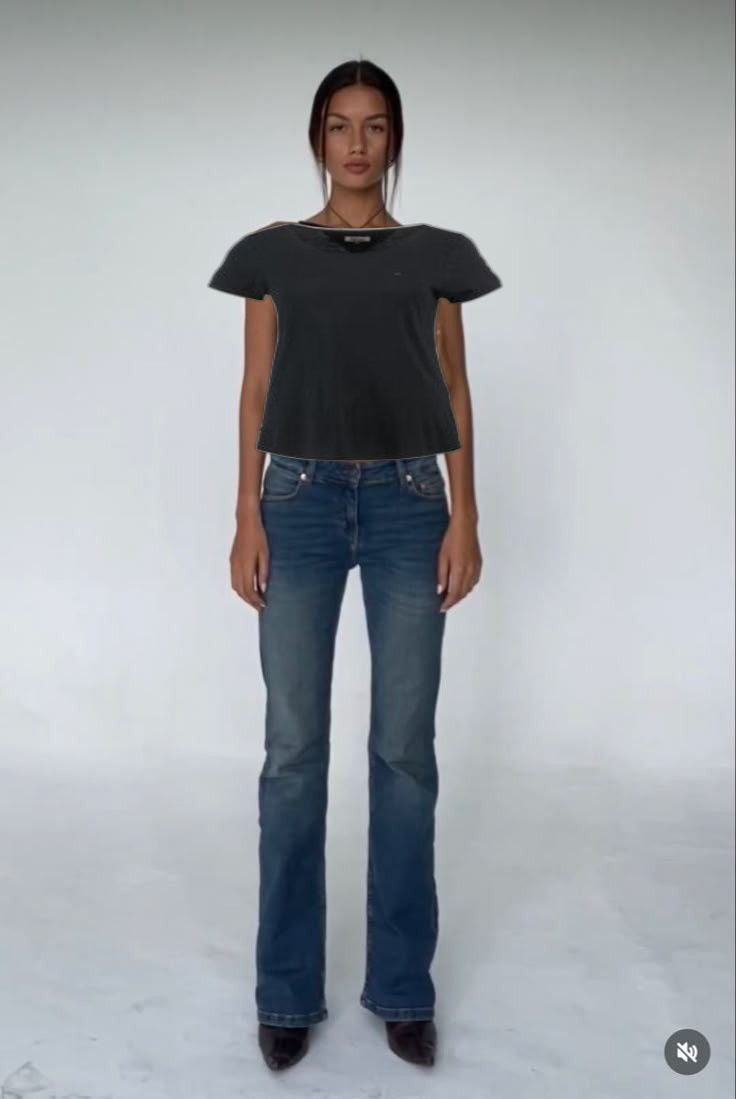
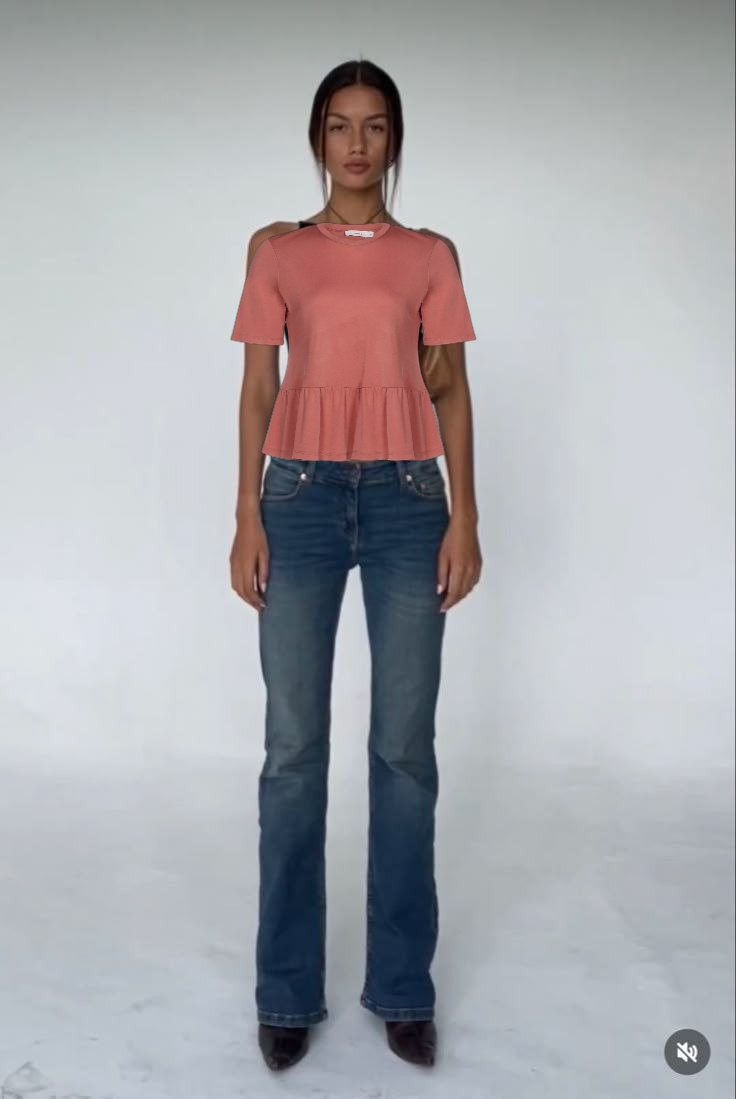
preselect cloth images

Changed region(s): [[0.2812, 0.1856, 0.6875, 0.4331]]

diff --git a/templates/homw.html b/templates/homw.html
@@ -60,7 +60,7 @@
 
                   <p style="text-align: left; font-size: 18px; color: #333; margin-bottom: 25px; max-width: 600px; margin-left: 0;">Upload your model and product images to see how different outfits look on you, without ever trying them on in person. 
                     Explore a new way of visualizing fashion with just a few simple clicks.</p>
-                  <a href="/upload" class="hero-btn">Try On Your Outfit</a>
+                  <a href="/upload?garment=static/results/images/Product8.jpeg" class="hero-btn">Try On Your Outfit</a>
                 </div>
                 <div class="right">
                   <img class="img1" src="static\results\images\banner.png" alt="">
@@ -110,7 +110,7 @@
           <a href="productDetails.html">Quis Nostrud Exercitation</a>
           <h4>$700</h4>
           <button>
-            <a href="/upload" class="hero-btnn">Try On</a>
+            <a href="/upload?garment=static/results/images/Product8.jpeg" class="hero-btnn">Try On</a>
           </button>
 
           <button>
@@ -136,7 +136,7 @@
           <a href="">Sonata White Men’s Shirt</a>
           <h4>$800</h4>
           <button>
-            <a href="/upload" class="hero-btnn">Try On</a>
+            <a href="/upload?garment=static/results/images/Product6.jpeg" class="hero-btnn">Try On</a>
           </button>
 
           <button>
@@ -160,11 +160,11 @@
           <a href="">Concepts Solid Pink Men’s Polo</a>
           <h4>$150</h4>
           <button>
-            <a href="/upload"class="hero-btnn">Try On</a>
+            <a href="/upload?garment=static/results/images/Product5.jpeg"class="hero-btnn">Try On</a>
           </button>
 
           <button>
-            <a href="static\results\images\2.jpeg" class="hero-btnn" download>Download</a>
+            <a href="static\results\images\Product5.jpeg" class="hero-btnn" download>Download</a>
           </button>
         </div>
         <ul class="icons">
@@ -185,7 +185,7 @@
           <a href="">Edor do eiusmod tempor</a>
           <h4>$900</h4>
           <button>
-            <a href="/upload" class="hero-btnn">Try On</a>
+            <a href="/upload?garment=static/results/images/2.jpeg" class="hero-btnn">Try On</a>
           </button>
 
           <button>
@@ -209,7 +209,7 @@
           <a href="">Edor do eiusmod tempor</a>
           <h4>$100</h4>
           <button>
-            <a href="/upload" class="hero-btnn">Try On</a>
+            <a href="/upload?garment=static/results/images/skirt.jpeg" class="hero-btnn">Try On</a>
           </button>
 
           <button>
@@ -233,7 +233,7 @@
           <a href="">Edor do eiusmod tempor</a>
           <h4>$500</h4>
           <button>
-            <a href="/upload" class="hero-btnn">Try On</a>
+            <a href="/upload?garment=static/results/images/pant.jpeg" class="hero-btnn">Try On</a>
           </button>
 
           <button>
@@ -258,7 +258,7 @@
           <a href="">Edor do eiusmod tempor</a>
           <h4>$200</h4>
           <button>
-            <a href="/upload" class="hero-btnn">Try On</a>
+            <a href="/upload?garment=static/results/images/Product1.jpeg" class="hero-btnn">Try On</a>
           </button>
 
           <button>
@@ -282,7 +282,7 @@
           <a href="">Edor do eiusmod tempor</a>
           <h4>$560</h4>
           <button>
-            <a href="/upload" class="hero-btnn">Try On</a>
+            <a href="/upload?garment=static/results/images/Product2.jpeg" class="hero-btnn">Try On</a>
           </button>
 
           <button>

diff --git a/templates/upload.html b/templates/upload.html
@@ -116,12 +116,12 @@
         <div class="file-input-container">
             <label for="model_image">Model Image:</label>
             <input type="file" name="model_image" required>
-            <span class="file-input-label">No file chosen</span>
+            <!-- <span class="file-input-label">No file chosen</span> -->
         </div>
         <div class="file-input-container">
             <label for="clothes_image">Clothes Image:</label>
-            <input type="file" name="clothes_image" required>
-            <span class="file-input-label">No file chosen</span>
+            <!-- <input type="file" name="clothes_image" required> -->
+            <!-- <span class="file-input-label">No file chosen</span> -->
         </div>
         <label for="garment_type">Select Garment Type:</label>
         <select name="garment_type" id="garment_type" required>
@@ -130,5 +130,30 @@
         </select>
         <input type="submit" value="Upload Images">
     </form>
+
+
+    <!-- Add this script at the bottom of the body in upload.html -->
+<script>
+    // Check if we have a preselected garment
+    const urlParams = new URLSearchParams(window.location.search);
+    const garmentPath = urlParams.get('garment');
+    
+    if (garmentPath) {
+      // Create a hidden input for the preselected garment
+      const hiddenInput = document.createElement('input');
+      hiddenInput.type = 'hidden';
+      hiddenInput.name = 'preselected_garment';
+      hiddenInput.value = garmentPath;
+      document.querySelector('form').appendChild(hiddenInput);
+      
+      // Update the clothes image label to show preselected image
+      const clothesLabel = document.querySelector('label[for="clothes_image"]');
+      clothesLabel.innerHTML += `<br><small>Preselected: ${garmentPath.split('/').pop()}</small>`;
+      
+      // Make clothes image upload optional since we have a preselected one
+      document.querySelector('input[name="clothes_image"]').required = false;
+    }
+  </script>
+
 </body>
 </html>

diff --git a/main.py b/main.py
@@ -96,45 +96,129 @@ def remove_background(input_path, output_path):
         print(f"Background removal error: {e}")
         return False
 
+# @app.route('/upload', methods=['GET', 'POST'])
+# def upload_file():
+#     if request.method == 'POST':
+#         model_image = request.files.get('model_image')
+#         clothes_image = request.files.get('clothes_image')
+#         garment_type = request.form.get('garment_type')
+
+#         if model_image and clothes_image:
+#             model_filename = secure_filename(model_image.filename)
+#             clothes_filename = secure_filename(clothes_image.filename)
+
+#             model_image_path = os.path.join(app.config['UPLOAD_FOLDER'], model_filename)
+#             clothes_image_path = os.path.join(app.config['UPLOAD_FOLDER'], clothes_filename)
+#             clothes_no_bg_path = os.path.join(app.config['UPLOAD_FOLDER'], 'no_bg_' + clothes_filename)
+#             output_filename = 'output_' + model_filename
+#             output_image_path = os.path.join(app.config['STATIC_FOLDER'], output_filename)
+
+#             model_image.save(model_image_path)
+#             clothes_image.save(clothes_image_path)
+
+#             if not remove_background(clothes_image_path, clothes_no_bg_path):
+#                 return jsonify({'error': 'Background removal failed'})
+
+#             if garment_type == 'lower_body':
+#                 output_path, message = overlay_lower_body_garment(model_image_path, clothes_no_bg_path, output_image_path)
+#             elif garment_type == 'upper_body':
+#                 output_path, message = overlay_cloth_on_model(model_image_path, clothes_no_bg_path, output_image_path)
+#             else:
+#                 return jsonify({'error': 'Invalid garment type'})
+
+#             if output_path:
+#                 with open(output_image_path, "rb") as img_file:
+#                     img_data = base64.b64encode(img_file.read()).decode('utf-8')
+#                 return render_template('result.html', img_data=img_data)
+#             else:
+#                 return jsonify({'error': message})
+
+#     return render_template('upload.html')
+# Update the upload_file route in main.py
+
 @app.route('/upload', methods=['GET', 'POST'])
 def upload_file():
     if request.method == 'POST':
         model_image = request.files.get('model_image')
         clothes_image = request.files.get('clothes_image')
         garment_type = request.form.get('garment_type')
+        preselected_garment = request.form.get('preselected_garment')
 
-        if model_image and clothes_image:
-            model_filename = secure_filename(model_image.filename)
+        # Validate model image is always required
+        if not model_image:
+            return jsonify({'error': 'Model image is required'}), 400
+
+        # Handle clothes image - either uploaded or preselected
+        if not clothes_image and not preselected_garment:
+            return jsonify({'error': 'Clothes image is required'}), 400
+
+        # Prepare file paths
+        model_filename = secure_filename(model_image.filename)
+        model_image_path = os.path.join(app.config['UPLOAD_FOLDER'], model_filename)
+        model_image.save(model_image_path)
+
+        # Handle clothes image
+        if clothes_image:
             clothes_filename = secure_filename(clothes_image.filename)
-
-            model_image_path = os.path.join(app.config['UPLOAD_FOLDER'], model_filename)
             clothes_image_path = os.path.join(app.config['UPLOAD_FOLDER'], clothes_filename)
-            clothes_no_bg_path = os.path.join(app.config['UPLOAD_FOLDER'], 'no_bg_' + clothes_filename)
-            output_filename = 'output_' + model_filename
-            output_image_path = os.path.join(app.config['STATIC_FOLDER'], output_filename)
-
-            model_image.save(model_image_path)
             clothes_image.save(clothes_image_path)
+        else:
+            # Use preselected garment
+            clothes_filename = os.path.basename(preselected_garment)
+            clothes_image_path = os.path.join(app.config['UPLOAD_FOLDER'], clothes_filename)
+            
+            # Copy preselected garment to upload folder
+            try:
+                import shutil
+                shutil.copy2(preselected_garment, clothes_image_path)
+            except Exception as e:
+                return jsonify({'error': f'Failed to use preselected garment: {str(e)}'}), 500
 
-            if not remove_background(clothes_image_path, clothes_no_bg_path):
-                return jsonify({'error': 'Background removal failed'})
+        # Process the images
+        clothes_no_bg_path = os.path.join(app.config['UPLOAD_FOLDER'], 'no_bg_' + clothes_filename)
+        output_filename = 'output_' + model_filename
+        output_image_path = os.path.join(app.config['STATIC_FOLDER'], output_filename)
 
-            if garment_type == 'lower_body':
-                output_path, message = overlay_lower_body_garment(model_image_path, clothes_no_bg_path, output_image_path)
-            elif garment_type == 'upper_body':
-                output_path, message = overlay_cloth_on_model(model_image_path, clothes_no_bg_path, output_image_path)
-            else:
-                return jsonify({'error': 'Invalid garment type'})
+        # Remove background from clothes image
+        if not remove_background(clothes_image_path, clothes_no_bg_path):
+            return jsonify({'error': 'Background removal failed'}), 500
 
-            if output_path:
-                with open(output_image_path, "rb") as img_file:
-                    img_data = base64.b64encode(img_file.read()).decode('utf-8')
-                return render_template('result.html', img_data=img_data)
-            else:
-                return jsonify({'error': message})
+        # Perform the overlay based on garment type
+        if garment_type == 'lower_body':
+            output_path, message = overlay_lower_body_garment(model_image_path, clothes_no_bg_path, output_image_path)
+        elif garment_type == 'upper_body':
+            output_path, message = overlay_cloth_on_model(model_image_path, clothes_no_bg_path, output_image_path)
+        else:
+            return jsonify({'error': 'Invalid garment type'}), 400
 
+        if output_path:
+            with open(output_image_path, "rb") as img_file:
+                img_data = base64.b64encode(img_file.read()).decode('utf-8')
+            return render_template('result.html', img_data=img_data)
+        else:
+            return jsonify({'error': message}), 500
+
+    # GET request handling
+    garment_path = request.args.get('garment')
+    
+    # If coming from Try On button with a garment preselected
+    if garment_path:
+        # Verify the garment exists
+        if not os.path.exists(garment_path):
+            return "Selected garment not found", 404
+            
+        # Determine garment type based on filename or path (simple heuristic)
+        garment_type = 'upper_body'  # default
+        lower_body_keywords = ['pant', 'skirt', 'lower', 'jeans']
+        if any(keyword in garment_path.lower() for keyword in lower_body_keywords):
+            garment_type = 'lower_body'
+        
+        return render_template('upload.html', 
+                            preselected_garment=garment_path,
+                            garment_type=garment_type)
+    
+    # Regular GET request without preselected garment
     return render_template('upload.html')
-
 
 
 if __name__ == '__main__':
